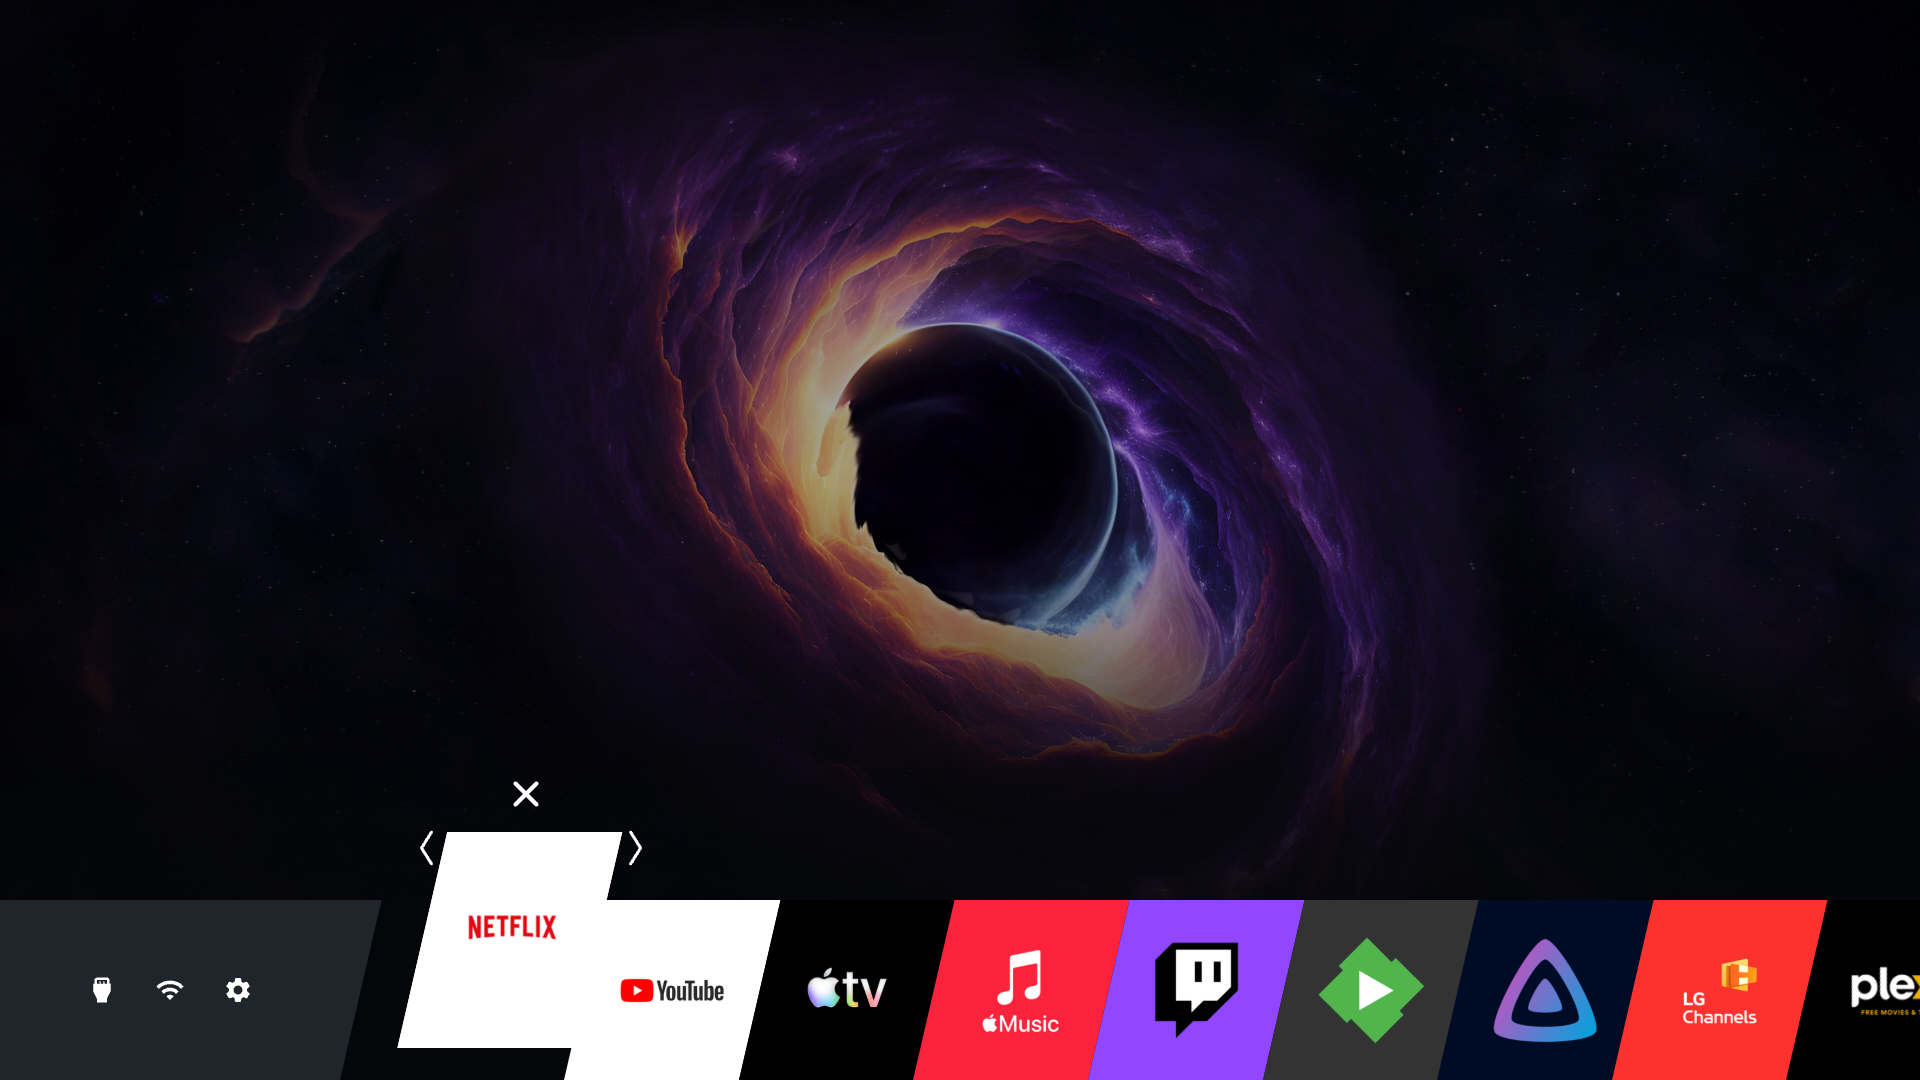
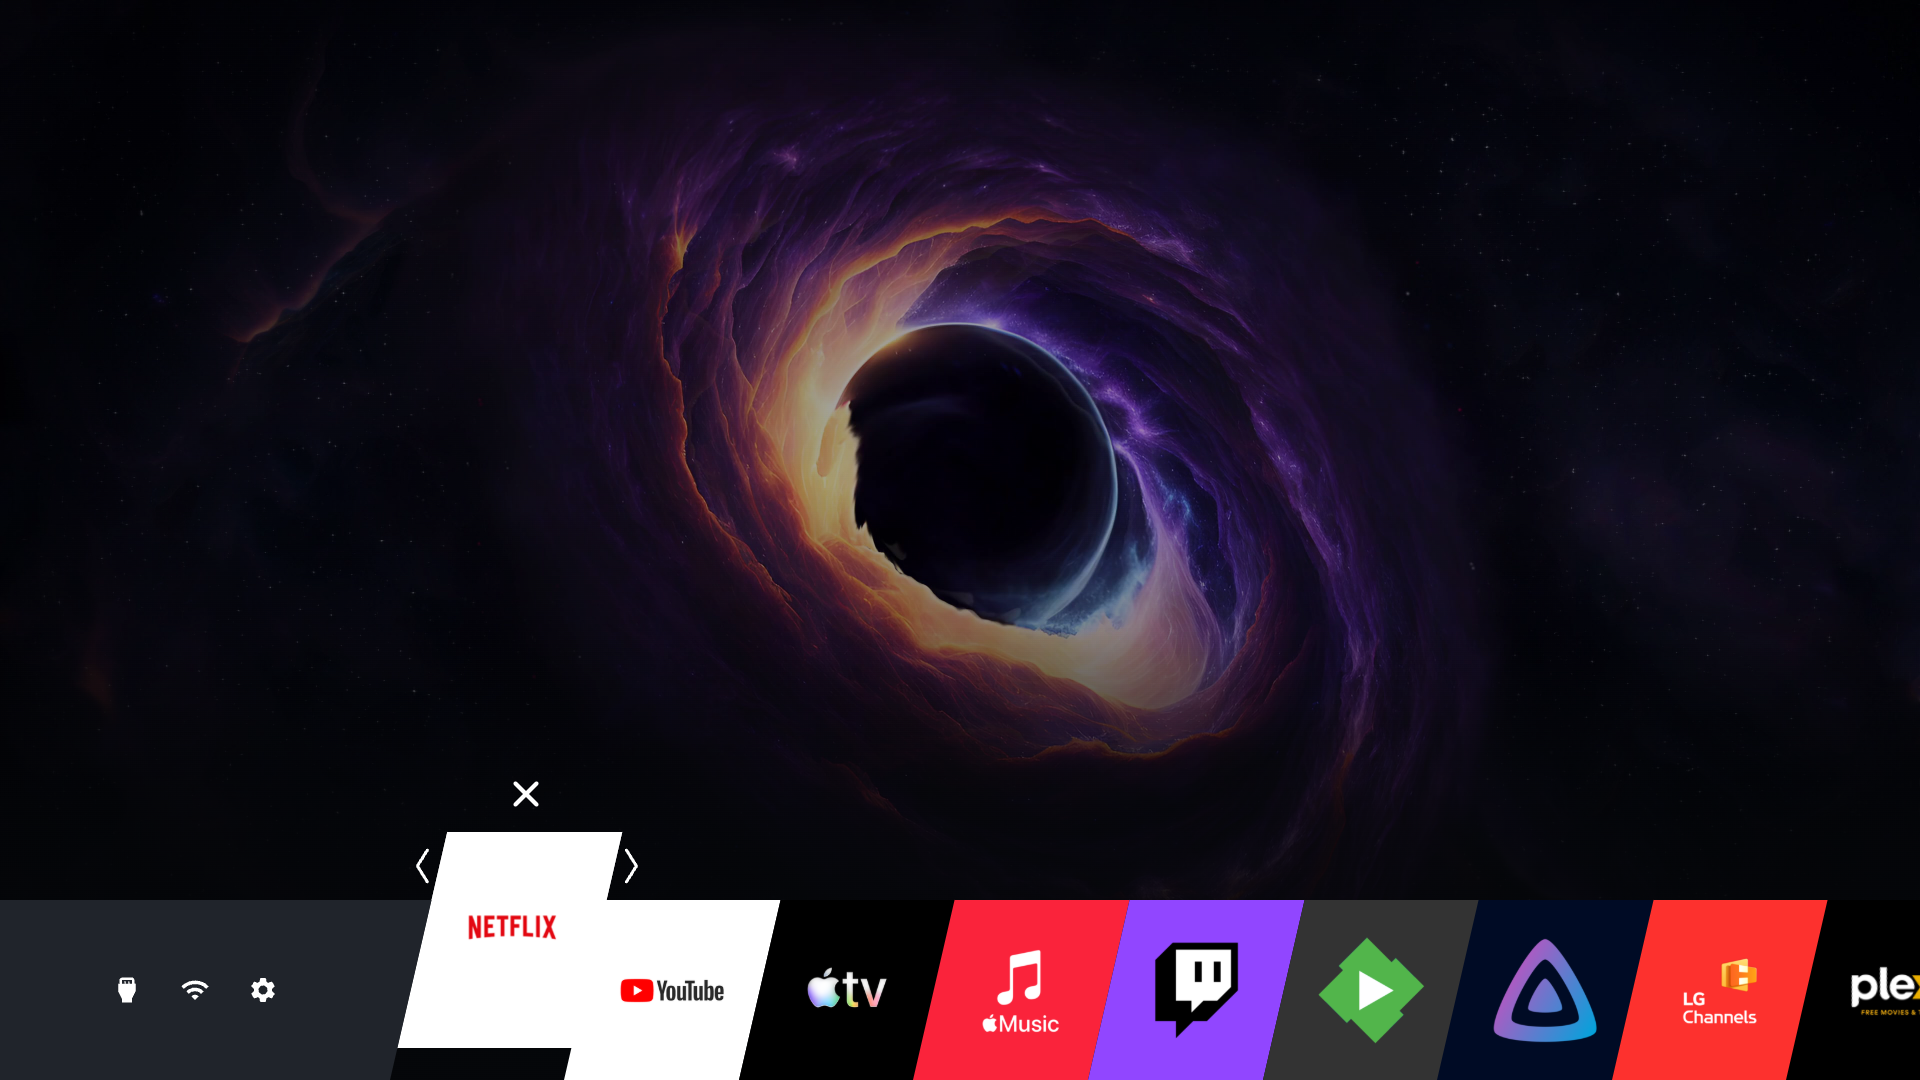
Close the Ribbon shortcut seam and center editing arrows

Changed region(s): [[0.1562, 0.825, 0.25, 1.0], [0.0312, 0.8861, 0.1562, 0.9472]]

diff --git a/launcher/theme-runtime.js b/launcher/theme-runtime.js
@@ -128,8 +128,9 @@
         ribbonRule('#topButtons .pill svg', 'width:32px;height:32px;margin:0;');
         if (manifest.layout.presentation === 'overlay') {
           // Continue the same skewed lane to the left screen edge.
-          ribbonRule('#topButtons', 'left:0;bottom:' + r.bottom + 'px;width:' + r.left + 'px;height:' + r.cardHeight + 'px;align-items:center;justify-content:center;');
-          ribbonRule('#topButtons::before', 'content:"";position:absolute;left:-64px;top:0;bottom:0;width:' + (r.left + 64) + 'px;box-sizing:border-box;border:0;background:#20242b;transform:skewX(' + r.skewDeg + 'deg);transform-origin:center bottom;pointer-events:none;');
+          var shortcutWidth = r.left + Math.abs(Math.tan(r.skewDeg * Math.PI / 180) * (r.cardHeight + r.focusLift));
+          ribbonRule('#topButtons', 'left:0;bottom:' + r.bottom + 'px;width:' + shortcutWidth + 'px;height:' + r.cardHeight + 'px;align-items:center;justify-content:center;');
+          ribbonRule('#topButtons::before', 'content:"";position:absolute;left:-64px;top:0;bottom:0;width:' + (shortcutWidth + 64) + 'px;box-sizing:border-box;border:0;background:#20242b;transform:skewX(' + r.skewDeg + 'deg);transform-origin:center bottom;pointer-events:none;');
           ribbonRule('#topButtons .pill', 'position:relative;width:60px;height:60px;margin:0 4px;padding:0;background:transparent;border:3px solid transparent;transform:none;');
           ribbonRule('#topButtons .pill.focused', 'background:#303238;border-color:#fff;');
           ribbonRule('#topButtons .pill svg', 'width:30px;height:30px;');

diff --git a/launcher/app.js b/launcher/app.js
@@ -438,7 +438,7 @@
         arrow.className = 'ribbon-edit-arrow ribbon-edit-' + side;
         arrow.setAttribute('aria-hidden', 'true');
         arrow.innerHTML = '<svg viewBox="0 0 24 40" aria-hidden="true"><path d="' + (side === 'left' ? 'M16 4L6 20l10 16' : 'M8 4l10 16L8 36') + '"/></svg>';
-        arrow.style.top = (-ribbon.focusLift - 36) + 'px';
+        arrow.style.top = (-(ribbon.focusLift + 32) / 2 - 20) + 'px';
         arrow.style.webkitTransform = arrow.style.transform = 'skewX(' + (-ribbon.skewDeg) + 'deg)';
         item.el.appendChild(arrow);
       });
